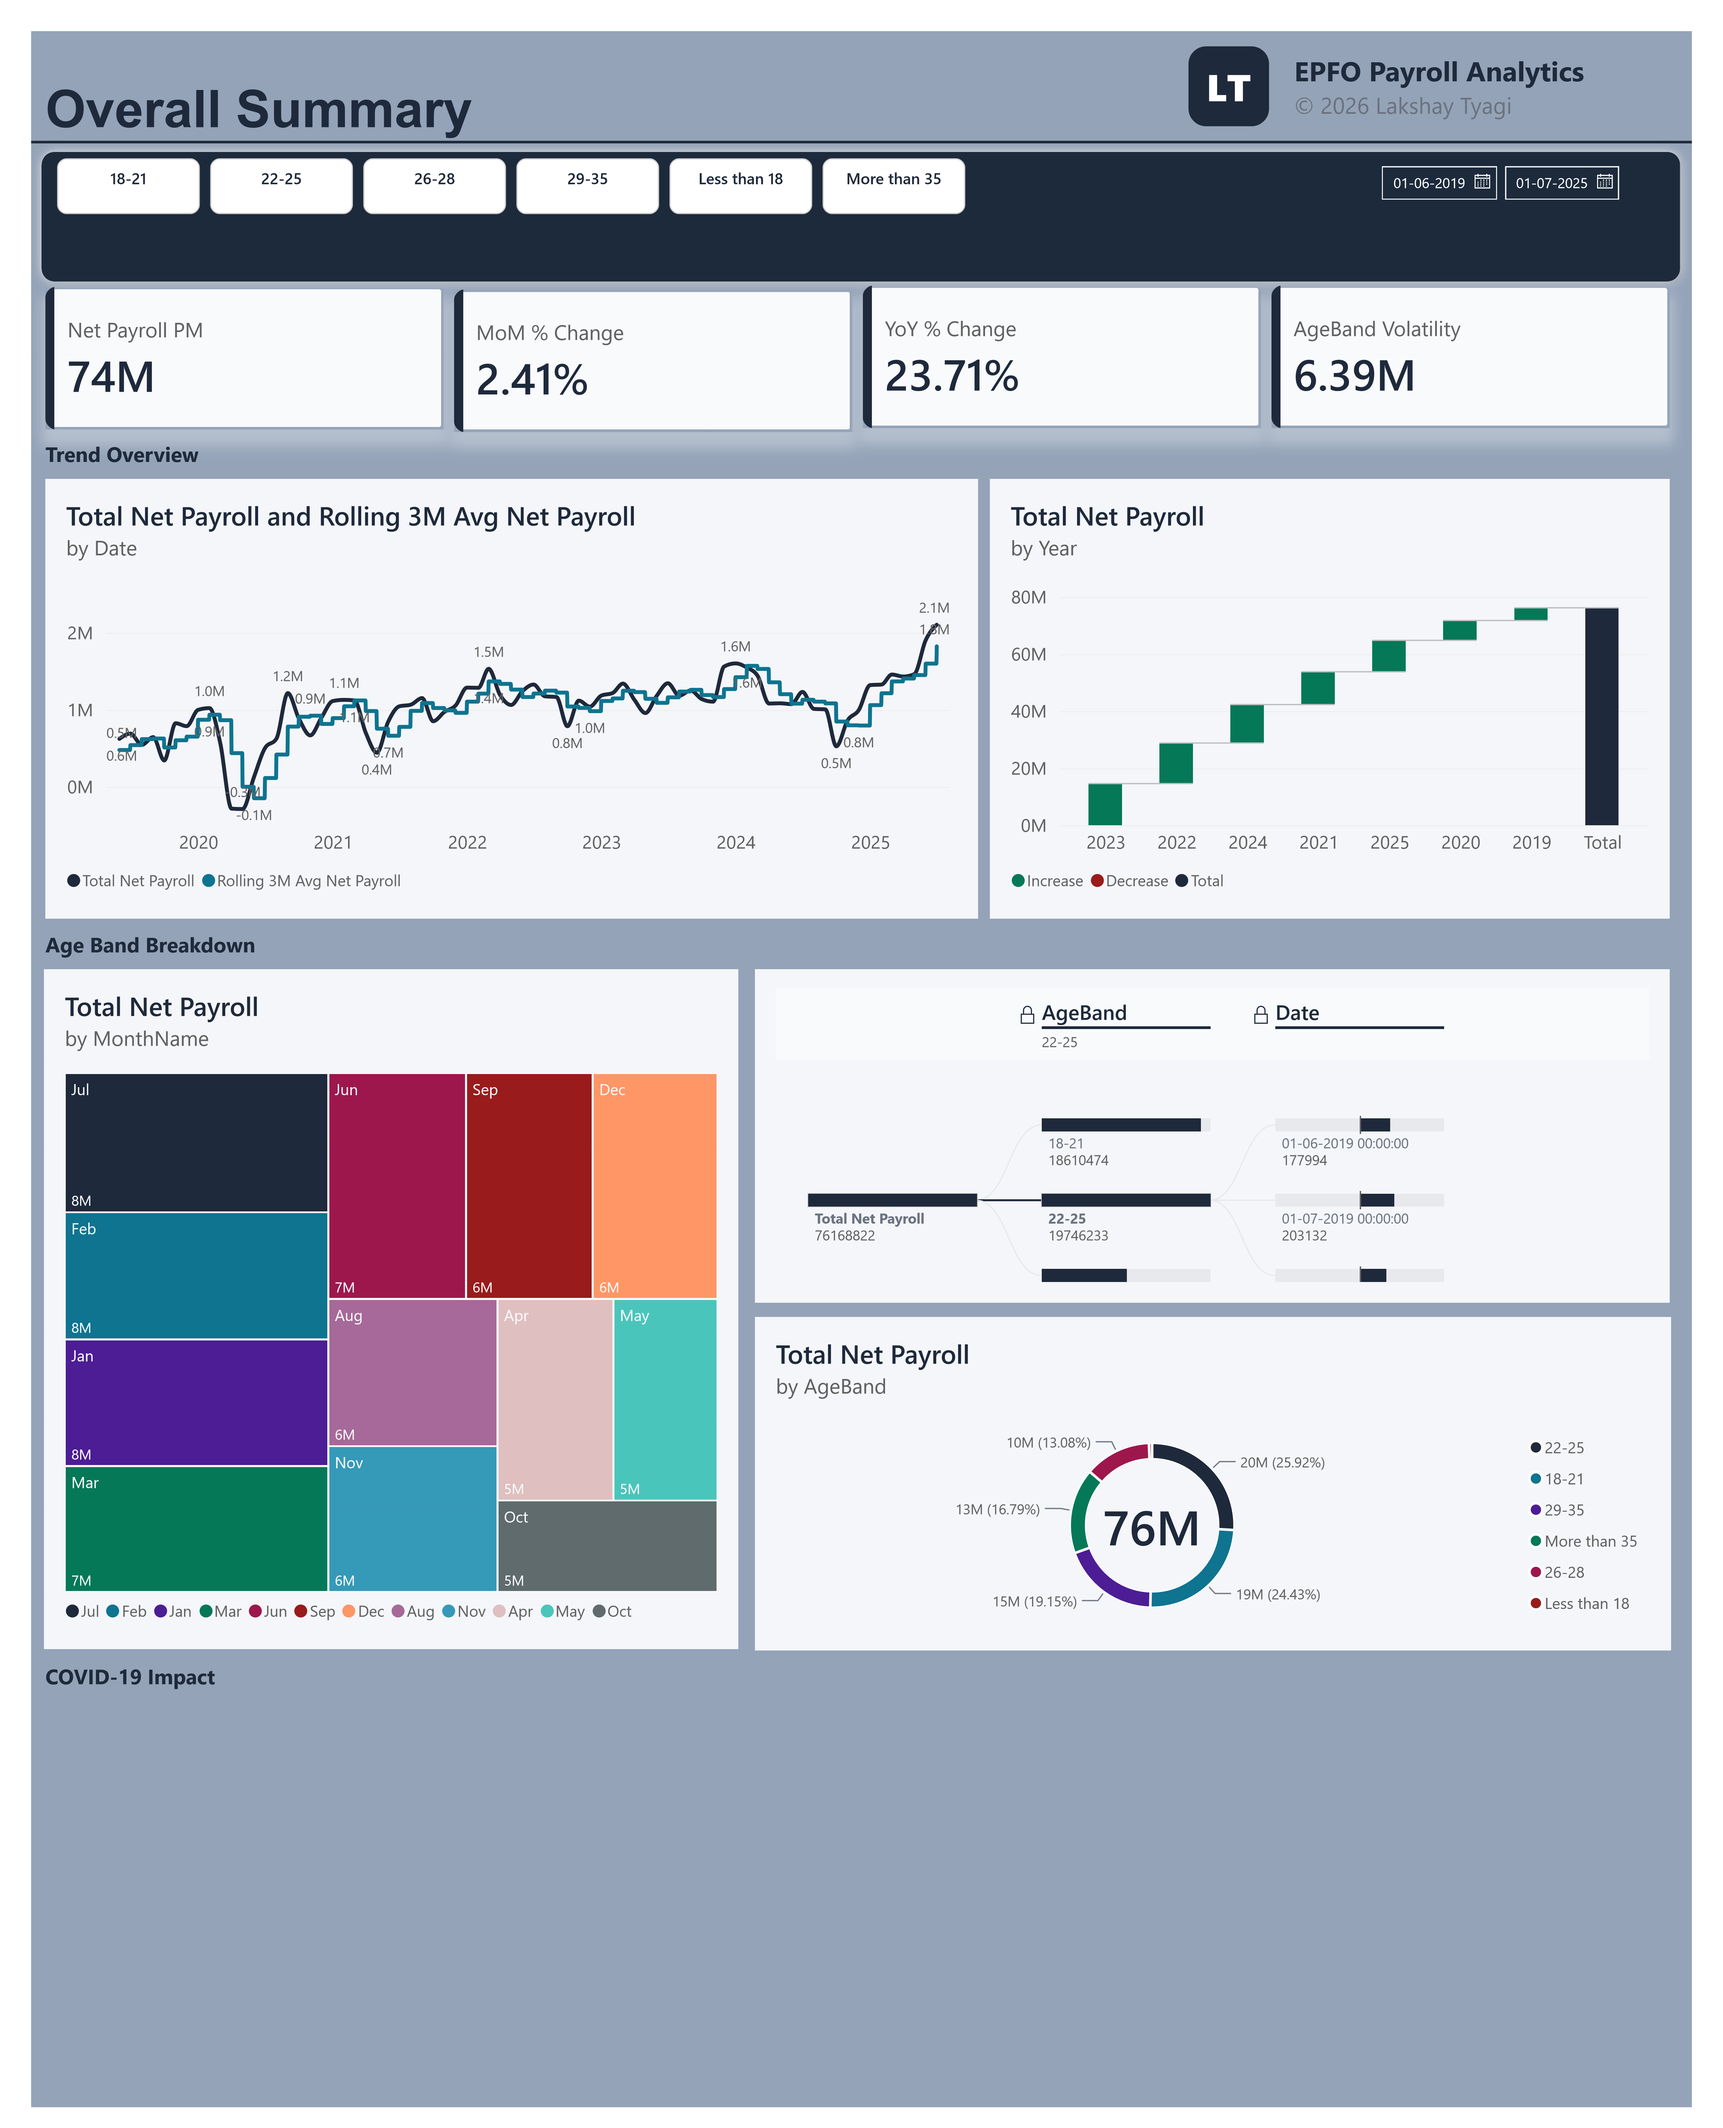
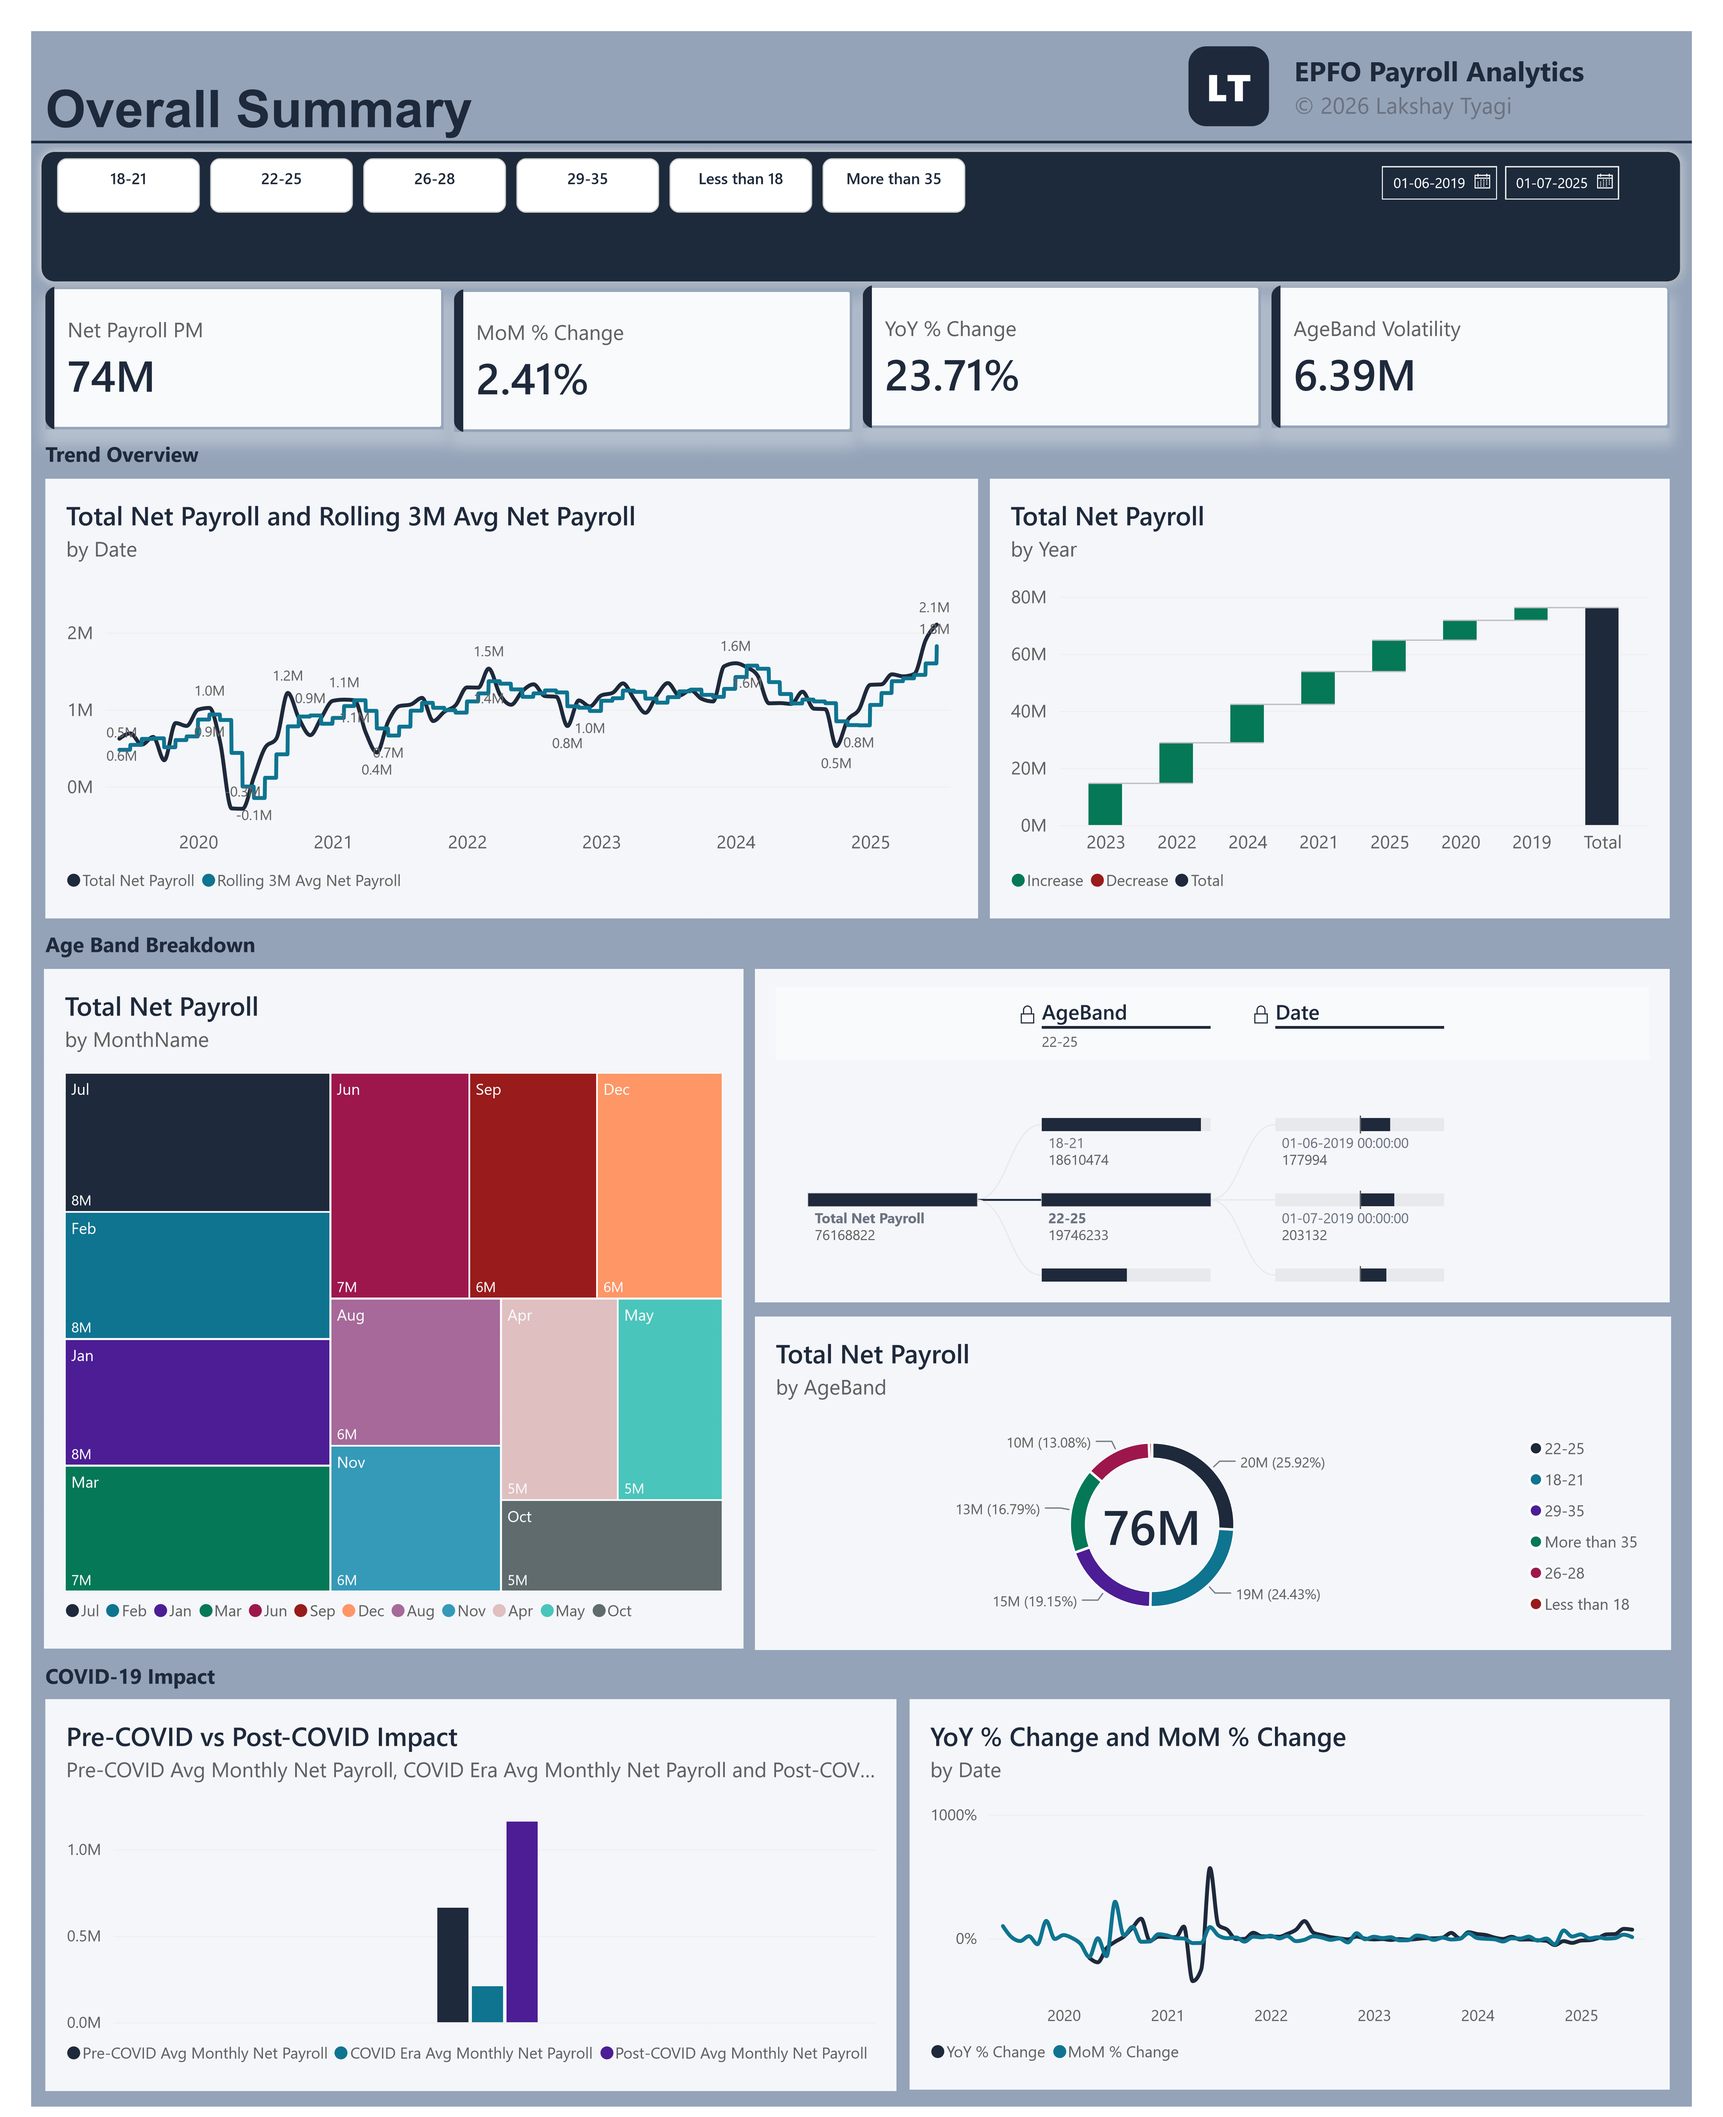
Refresh screenshots with COVID-19 Impact, final GitHub audit pass

diff --git a/screenshots/README.md b/screenshots/README.md
@@ -6,8 +6,5 @@ what the dashboard looks like.
 - `action-center.png` — Page 1, the Action Center landing page. Only one
   button is live so far ("1. Overall Summary"); more appear here as the
   [Future scope](../README.md#future-scope) pages get built.
-- `overall-summary.png` — Page 2, the Overall Summary dashboard, which I
-  settled on 3 sections for: Trend Overview, Age-Band Breakdown, and
-  COVID-19 Impact. This screenshot was exported before COVID-19 Impact was
-  added, so it predates that section — I'll re-export it to bring it
-  current.
+- `overall-summary.png` — Page 2, the Overall Summary dashboard, final at
+  3 sections: Trend Overview, Age-Band Breakdown, and COVID-19 Impact.

diff --git a/README.md b/README.md
@@ -15,10 +15,8 @@ which I extended back to 2019 via the Wayback Machine — see below.
 
 ![Action Center](screenshots/action-center.png)
 
-**Overall Summary (Page 2)** — 3 sections: Trend Overview, Age-Band
-Breakdown, and COVID-19 Impact. (This screenshot was captured before
-COVID-19 Impact was added, so it doesn't show that section yet — I'll
-re-export it to bring it current.)
+**Overall Summary (Page 2)** — final at 3 sections: Trend Overview,
+Age-Band Breakdown, and COVID-19 Impact:
 
 ![Overall Summary](screenshots/overall-summary.png)
 
